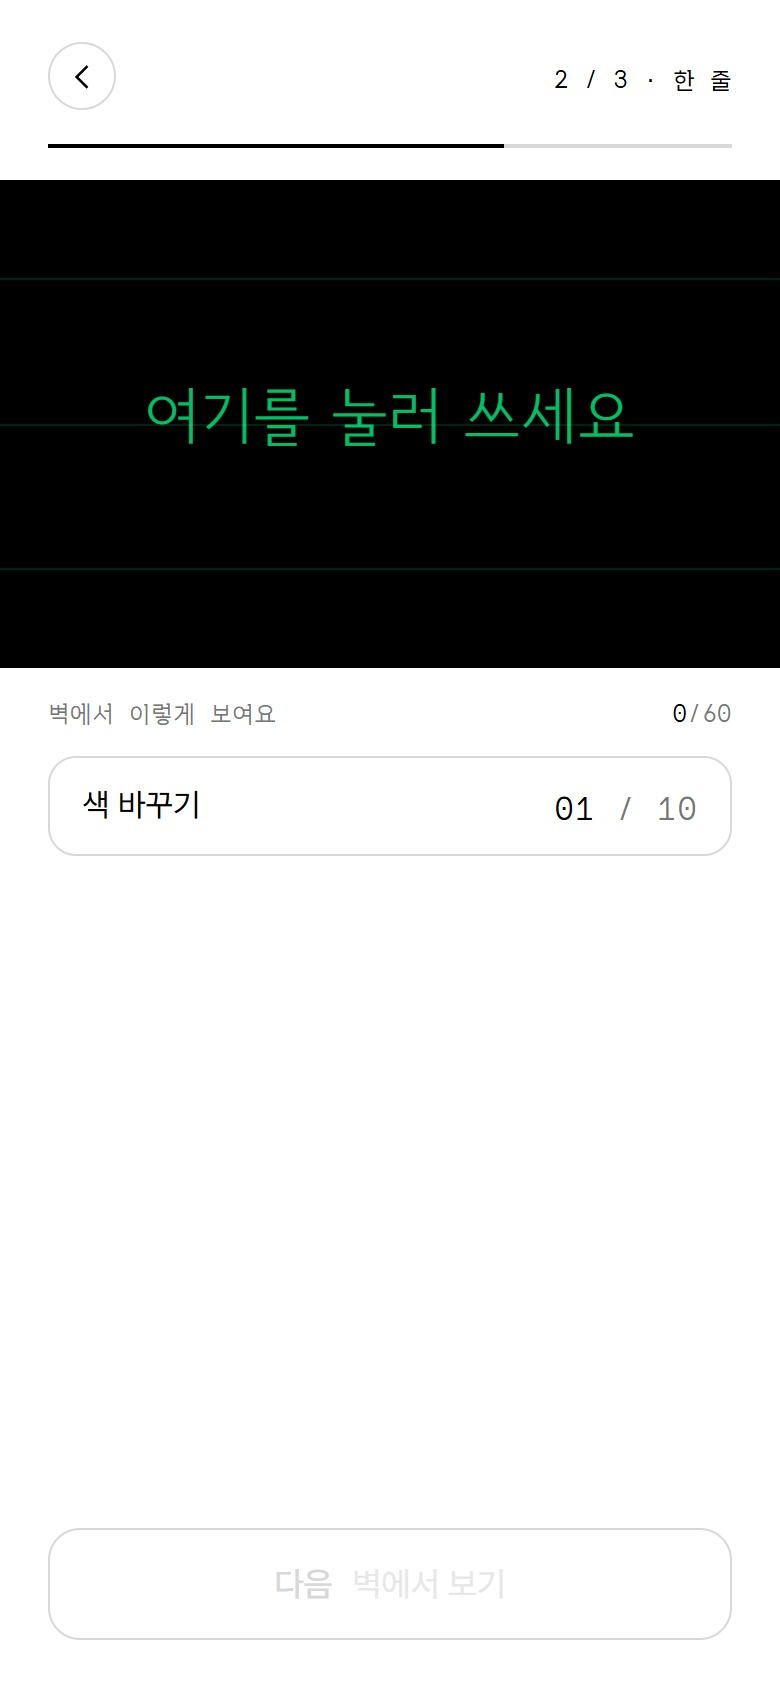
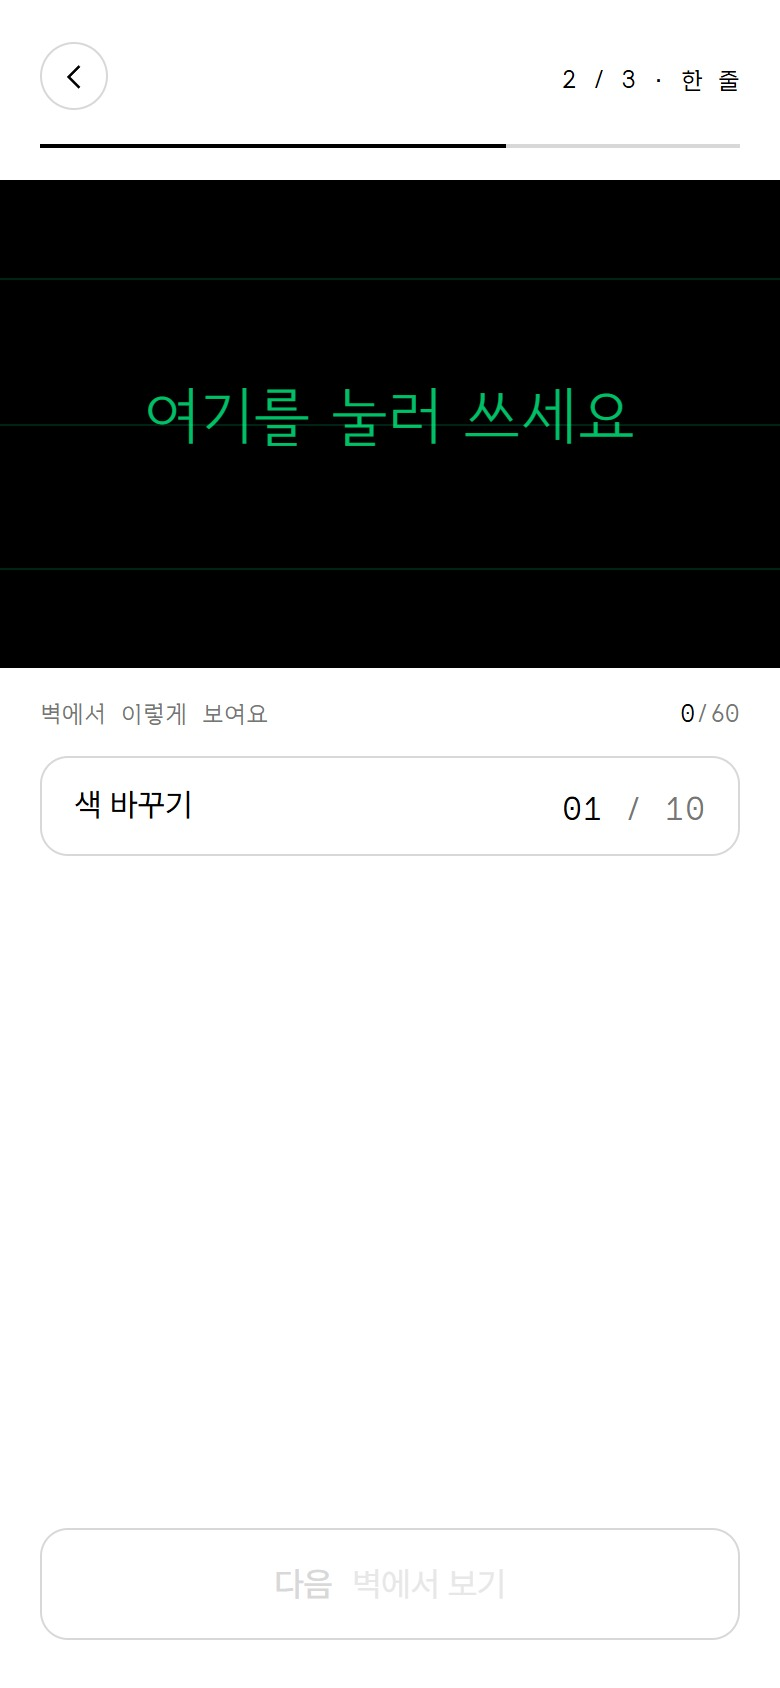
Follow the screens, not the table they were supposed to describe
Four numbers move from the documentation site's computed styles to what the
Toss app actually renders. Page margin 24 to 20, which is a value the
document's own spacing cluster does not contain but 36 of 51 screens use.
Button radius 16 to 14 — the product pairs an xlarge height with a large
radius, breaking the ladder the document presents as inseparable. Bottom
inset from calc(24 + env) to max(24, env), so an iPhone gets exactly the 34
the screens show and a device without an inset still keeps the button off
the edge. And the heading ramp from 36 at 1.5 down to 28 at 1.3, following
ink 20px on a 31px pitch.

Body stays at 16/1.5. Measured pitch there was 26, which is a 17px body at
1.5, so the document and the product agree and there was nothing to fix.

H1 stays one step above the product at 28 rather than 24. Screen 07 is read
standing back from a phone wedged in a slot, and Toss has no screen like
that; repository facts outrank the reference, which is the rule this
adoption has been following since the start.

Not taken: dropping the step indicator. Toss shows no step widget in any of
the fifty-one screens, but its card application runs past ten steps, where
counting would only discourage. Three steps are worth counting.

Accessibility still clean across ten screens, no overflow in sixteen captures.

diff --git a/src/styles/app.css b/src/styles/app.css
@@ -29,16 +29,29 @@
   --press-tint: rgba(0, 0, 0, 0.08);
 
   /* ─── 활자 사다리 ───────────────────────────────────────────
-     참조 문서가 실제 계산값으로 확인한 여섯 역할을 그대로 가져온다.
-     행간은 여섯 역할 모두 1.5로 같다 — 그게 저쪽의 규칙이다.
-     자간은 저 문서가 말하지 않으므로 지어내지 않는다; 여기 쓰던 값을 유지한다.
-       H1 36/700  H2 30/600  H3 24/600  H4 22/600  본문 16/400  작은본문 14/400 */
-  --fs-h1: 36px;
-  --fs-h2: 30px;
-  --fs-h3: 24px;
-  --fs-h4: 22px;
+     한 번 갈아엎었다. 참조 문서의 표(H1 36/1.5 …)를 그대로 썼는데,
+     그 표는 문서 자신이 밝혀 뒀듯 개발 문서 *웹사이트*의 계산값이었다.
+     실제 제품 화면 51장을 재 보니 다른 값이 나왔다:
+
+       제목  잉크 20px · 줄 피치 31px  →  24 안팎 / 행간 ≈1.3
+       본문  줄 피치 26px             →  17 안팎 / 행간 ≈1.5
+
+     그래서 제목은 제품 쪽으로 내리고 행간을 1.3으로 좁혔다.
+     본문은 문서와 제품이 대체로 같아서 그대로 둔다.
+     (측정: scripts/measure-reference.py · 정리: design/reference-capture-analysis.md)
+
+     H1만 제품(24)보다 한 급 높은 28이다. 07은 폰을 홈에 꽂아 두고 몇 걸음
+     물러선 채 읽는 화면이라 — 토스에는 그런 자리가 없다 — 거기서만은
+     제품보다 커야 한다. 저장소의 사실이 참조보다 위다.
+     자간은 저 문서가 말하지 않으므로 지어내지 않는다. */
+  --fs-h1: 28px;
+  --fs-h2: 24px;
+  --fs-h3: 22px;
+  --fs-h4: 20px;
   --fs-body: 16px;
   --fs-body-s: 14px;
+  /* 제목의 행간. 본문(1.5)과 다르다 — 제품이 그렇다 */
+  --lh-head: 1.3;
   /* 아래 둘은 참조 문서에 없는 자리다 — 우리 확장이라고 적어 둔다.
      라벨·수치·캡션은 이 앱에 반드시 필요하고, 저쪽은 그 역할을 문서화하지 않았다. */
   --fs-cap: 12px;
@@ -56,14 +69,17 @@
   --s6: 24px;
   --s7: 32px;
 
-  /* 화면 좌우 여백 — 관측 군집의 24 */
-  --pad-x: 24px;
+  /* 화면 좌우 여백. 문서의 군집(4·6·8·16·24·32)에는 20이 아예 없는데,
+     제품 화면 51장 중 36장이 20이었다. 제품을 따른다. */
+  --pad-x: 20px;
 
   /* ─── 버튼 사다리 ───────────────────────────────────────────
-     참조 문서는 높이와 라운드를 한 짝으로 묶는다:
+     문서는 높이와 라운드를 한 짝으로 묶는다:
        small 32/8 · medium 38/10 · large 48/14 · xlarge 56/16
-     높이와 라운드를 따로 고르지 않는다 — 그게 저 계약의 요점이다. */
-  --btn-xl: 56px;   --r-xl: 16px;
+     높이는 실측과 정확히 맞았다 — 기본 버튼 56px, 34장 중 34장.
+     라운드는 안 맞았다. 제품은 34장 중 30장이 14다. 즉 높이는 xlarge를,
+     라운드는 large의 값을 쓴다. 짝을 깨는 쪽이 제품이므로 제품을 따른다. */
+  --btn-xl: 56px;   --r-xl: 14px;
   --btn-l: 48px;    --r-l: 14px;
   --btn-s: 32px;    --r-s: 8px;
 
@@ -94,7 +110,7 @@
   background: var(--paper);
   color: var(--ink);
   font-family: var(--ui-font);
-  padding: var(--s5) var(--pad-x) calc(var(--s6) + env(safe-area-inset-bottom, 0px));
+  padding: var(--s5) var(--pad-x) max(var(--s6), env(safe-area-inset-bottom, 0px));
   display: flex;
   flex-direction: column;
   gap: var(--s5);
@@ -205,7 +221,7 @@
   font-size: var(--fs-h2);
   font-weight: 600;
   letter-spacing: -0.02em;
-  line-height: 1.5;
+  line-height: var(--lh-head);
 }
 
 .guide-hero p{
@@ -396,7 +412,7 @@
   position: relative;
   z-index: 2;
   min-height: 100dvh;
-  padding: var(--s5) var(--pad-x) calc(var(--s6) + env(safe-area-inset-bottom, 0px));
+  padding: var(--s5) var(--pad-x) max(var(--s6), env(safe-area-inset-bottom, 0px));
   display: flex;
   flex-direction: column;
   justify-content: space-between;
@@ -436,7 +452,7 @@
 .home-headline{
   font-size: var(--fs-h1);
   font-weight: 700;
-  line-height: 1.5;
+  line-height: var(--lh-head);
   letter-spacing: -0.02em;
 }
 
@@ -527,7 +543,7 @@
   font-size: var(--fs-h3);
   font-weight: 600;
   letter-spacing: -0.02em;
-  line-height: 1.5;
+  line-height: var(--lh-head);
 }
 
 .z-ask p{
@@ -956,7 +972,7 @@
   background: var(--paper);
   color: var(--ink);
   font-family: var(--ui-font);
-  padding: var(--s5) var(--pad-x) calc(var(--s6) + env(safe-area-inset-bottom, 0px));
+  padding: var(--s5) var(--pad-x) max(var(--s6), env(safe-area-inset-bottom, 0px));
   display: flex;
   flex-direction: column;
   align-items: center;
@@ -1005,7 +1021,7 @@
   background: var(--paper);
   color: var(--ink);
   font-family: var(--ui-font);
-  padding: var(--s5) var(--pad-x) calc(var(--s6) + env(safe-area-inset-bottom, 0px));
+  padding: var(--s5) var(--pad-x) max(var(--s6), env(safe-area-inset-bottom, 0px));
   display: flex;
   flex-direction: column;
   gap: var(--s5);
@@ -1094,7 +1110,7 @@
   text-wrap: balance;
   font-size: var(--fs-h4);
   font-weight: 600;
-  line-height: 1.5;
+  line-height: var(--lh-head);
   letter-spacing: -0.02em;
   text-wrap: balance;
   flex: none;
@@ -1214,7 +1230,7 @@
 .send-copy h1{
   text-wrap: balance;
   font-size: var(--fs-h2);
-  line-height: 1.5;
+  line-height: var(--lh-head);
   font-weight: 600;
   letter-spacing: -0.02em;
 }
@@ -1437,7 +1453,7 @@
   flex: 1;
   display: flex;
   flex-direction: column;
-  padding: var(--s5) var(--pad-x) calc(var(--s6) + env(safe-area-inset-bottom, 0px));
+  padding: var(--s5) var(--pad-x) max(var(--s6), env(safe-area-inset-bottom, 0px));
   min-height: 0;
   overflow-y: auto;
 }
@@ -1460,7 +1476,7 @@
   font-size: var(--fs-h1);
   font-weight: 700;
   letter-spacing: -0.03em;
-  line-height: 1.5;
+  line-height: var(--lh-head);
 }
 
 .onwall-look{
@@ -1546,7 +1562,7 @@
   font-size: var(--fs-h1);
   font-weight: 700;
   letter-spacing: -0.02em;
-  line-height: 1.5;
+  line-height: var(--lh-head);
 }
 
 .done-lead{
